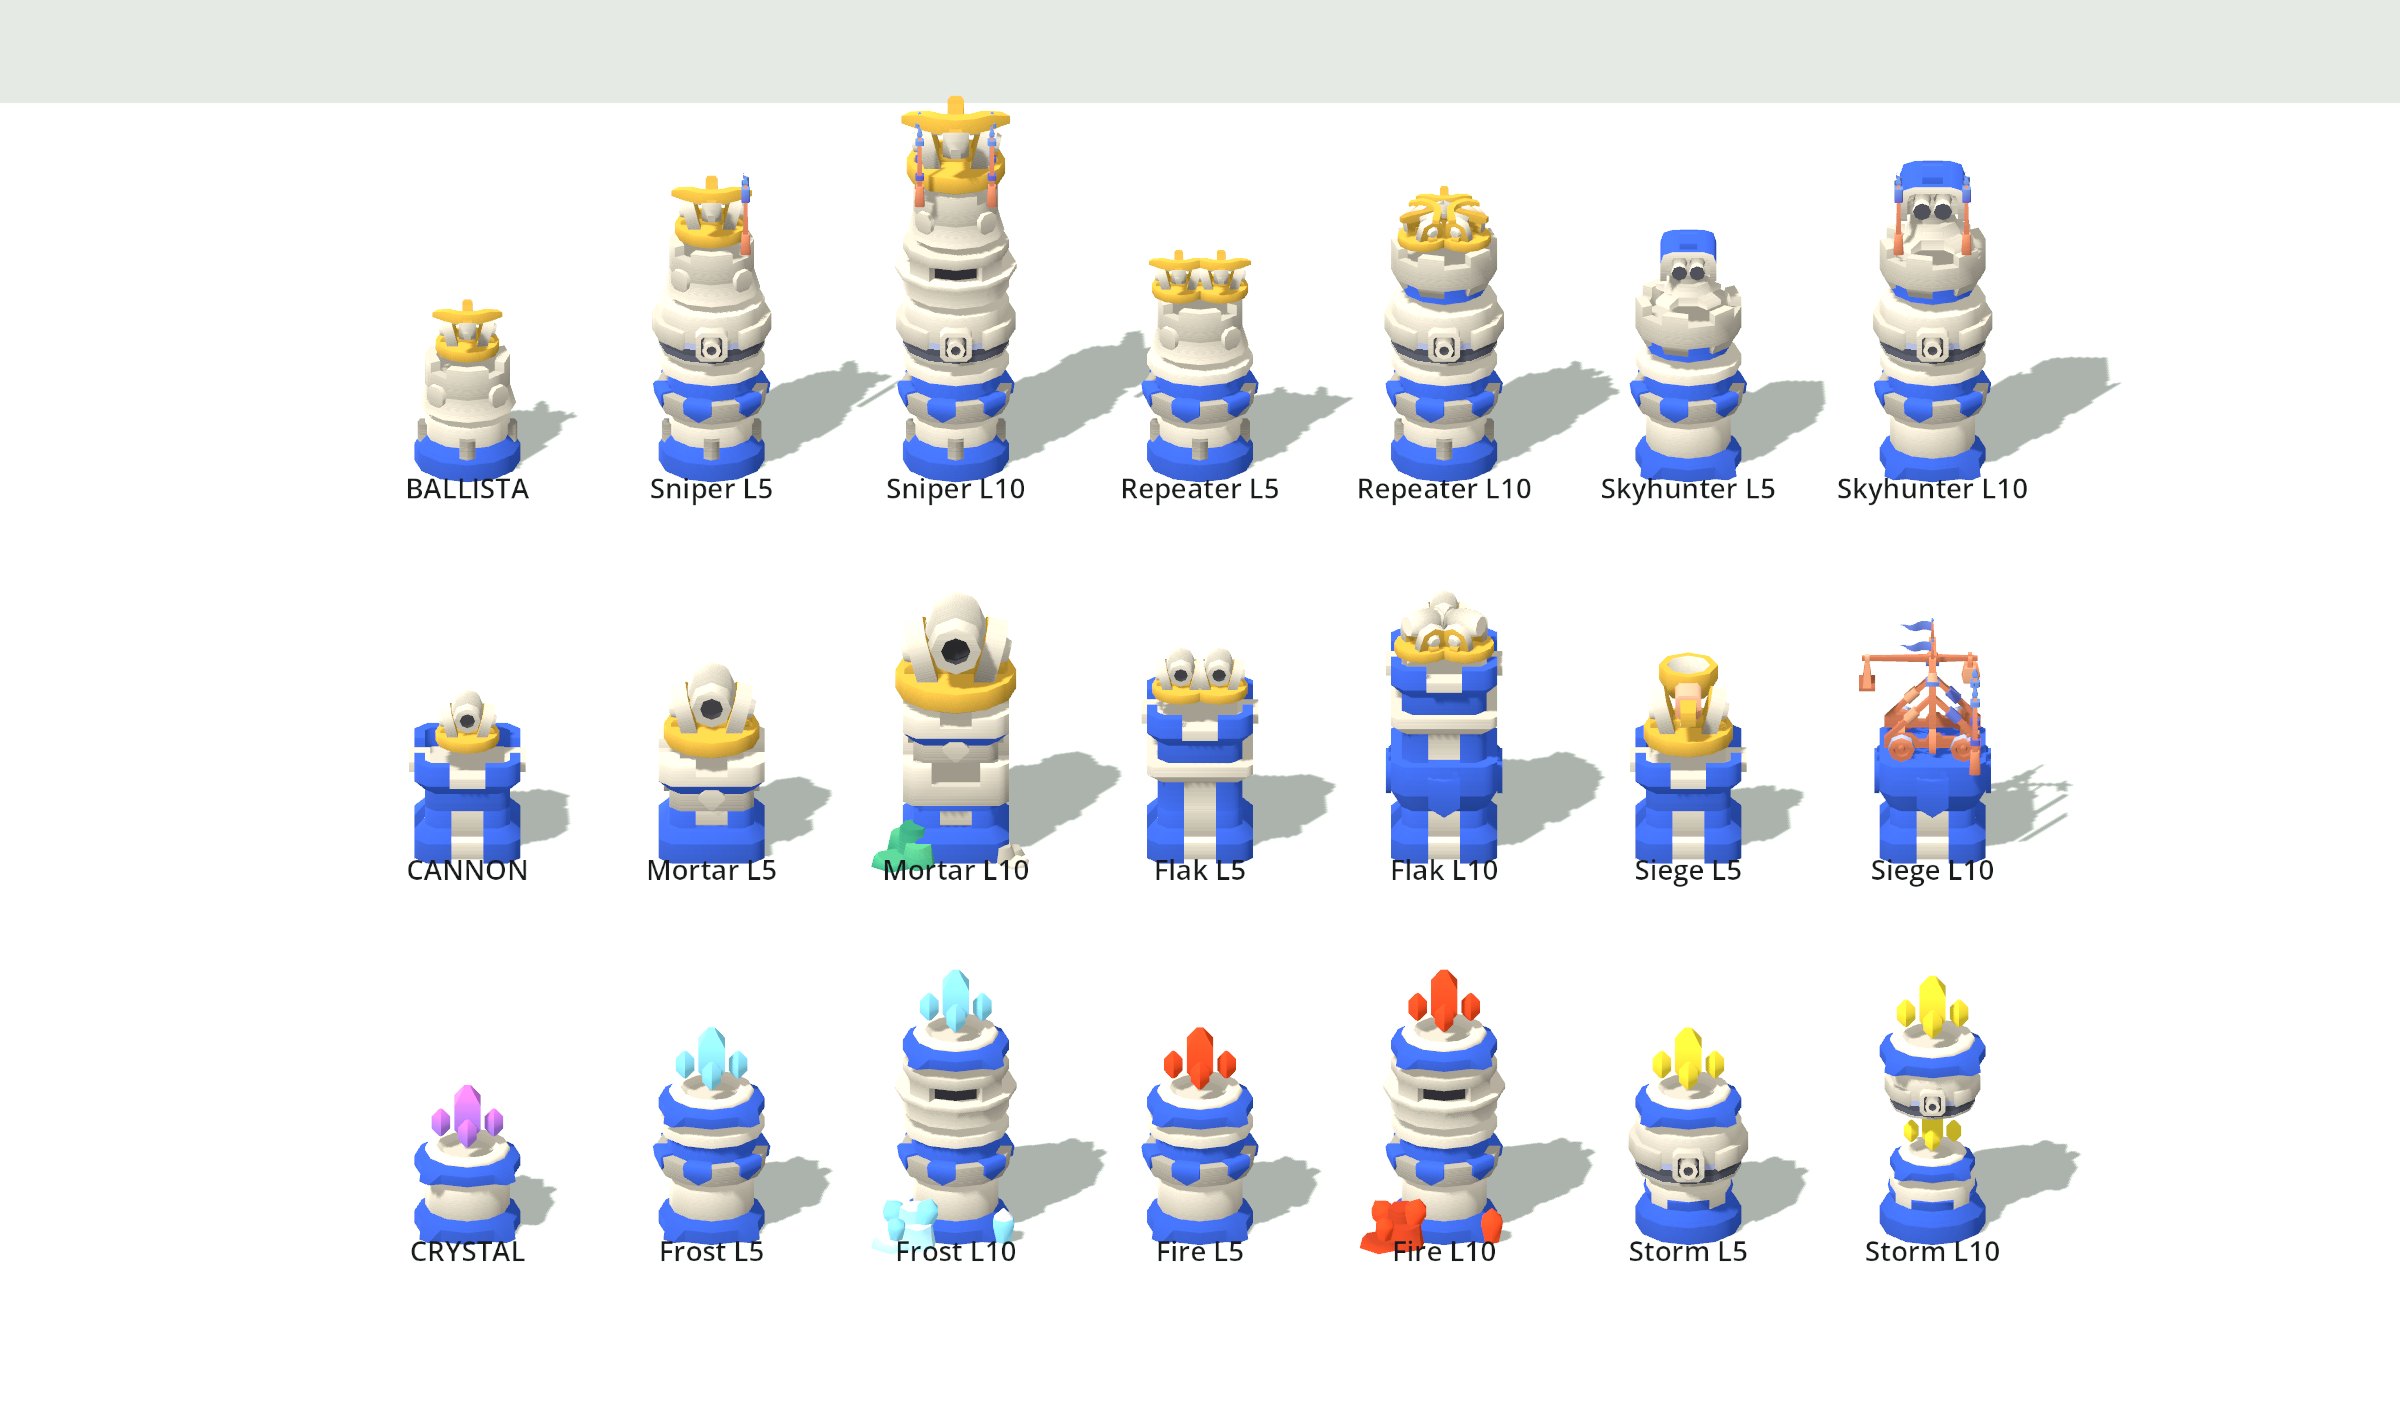
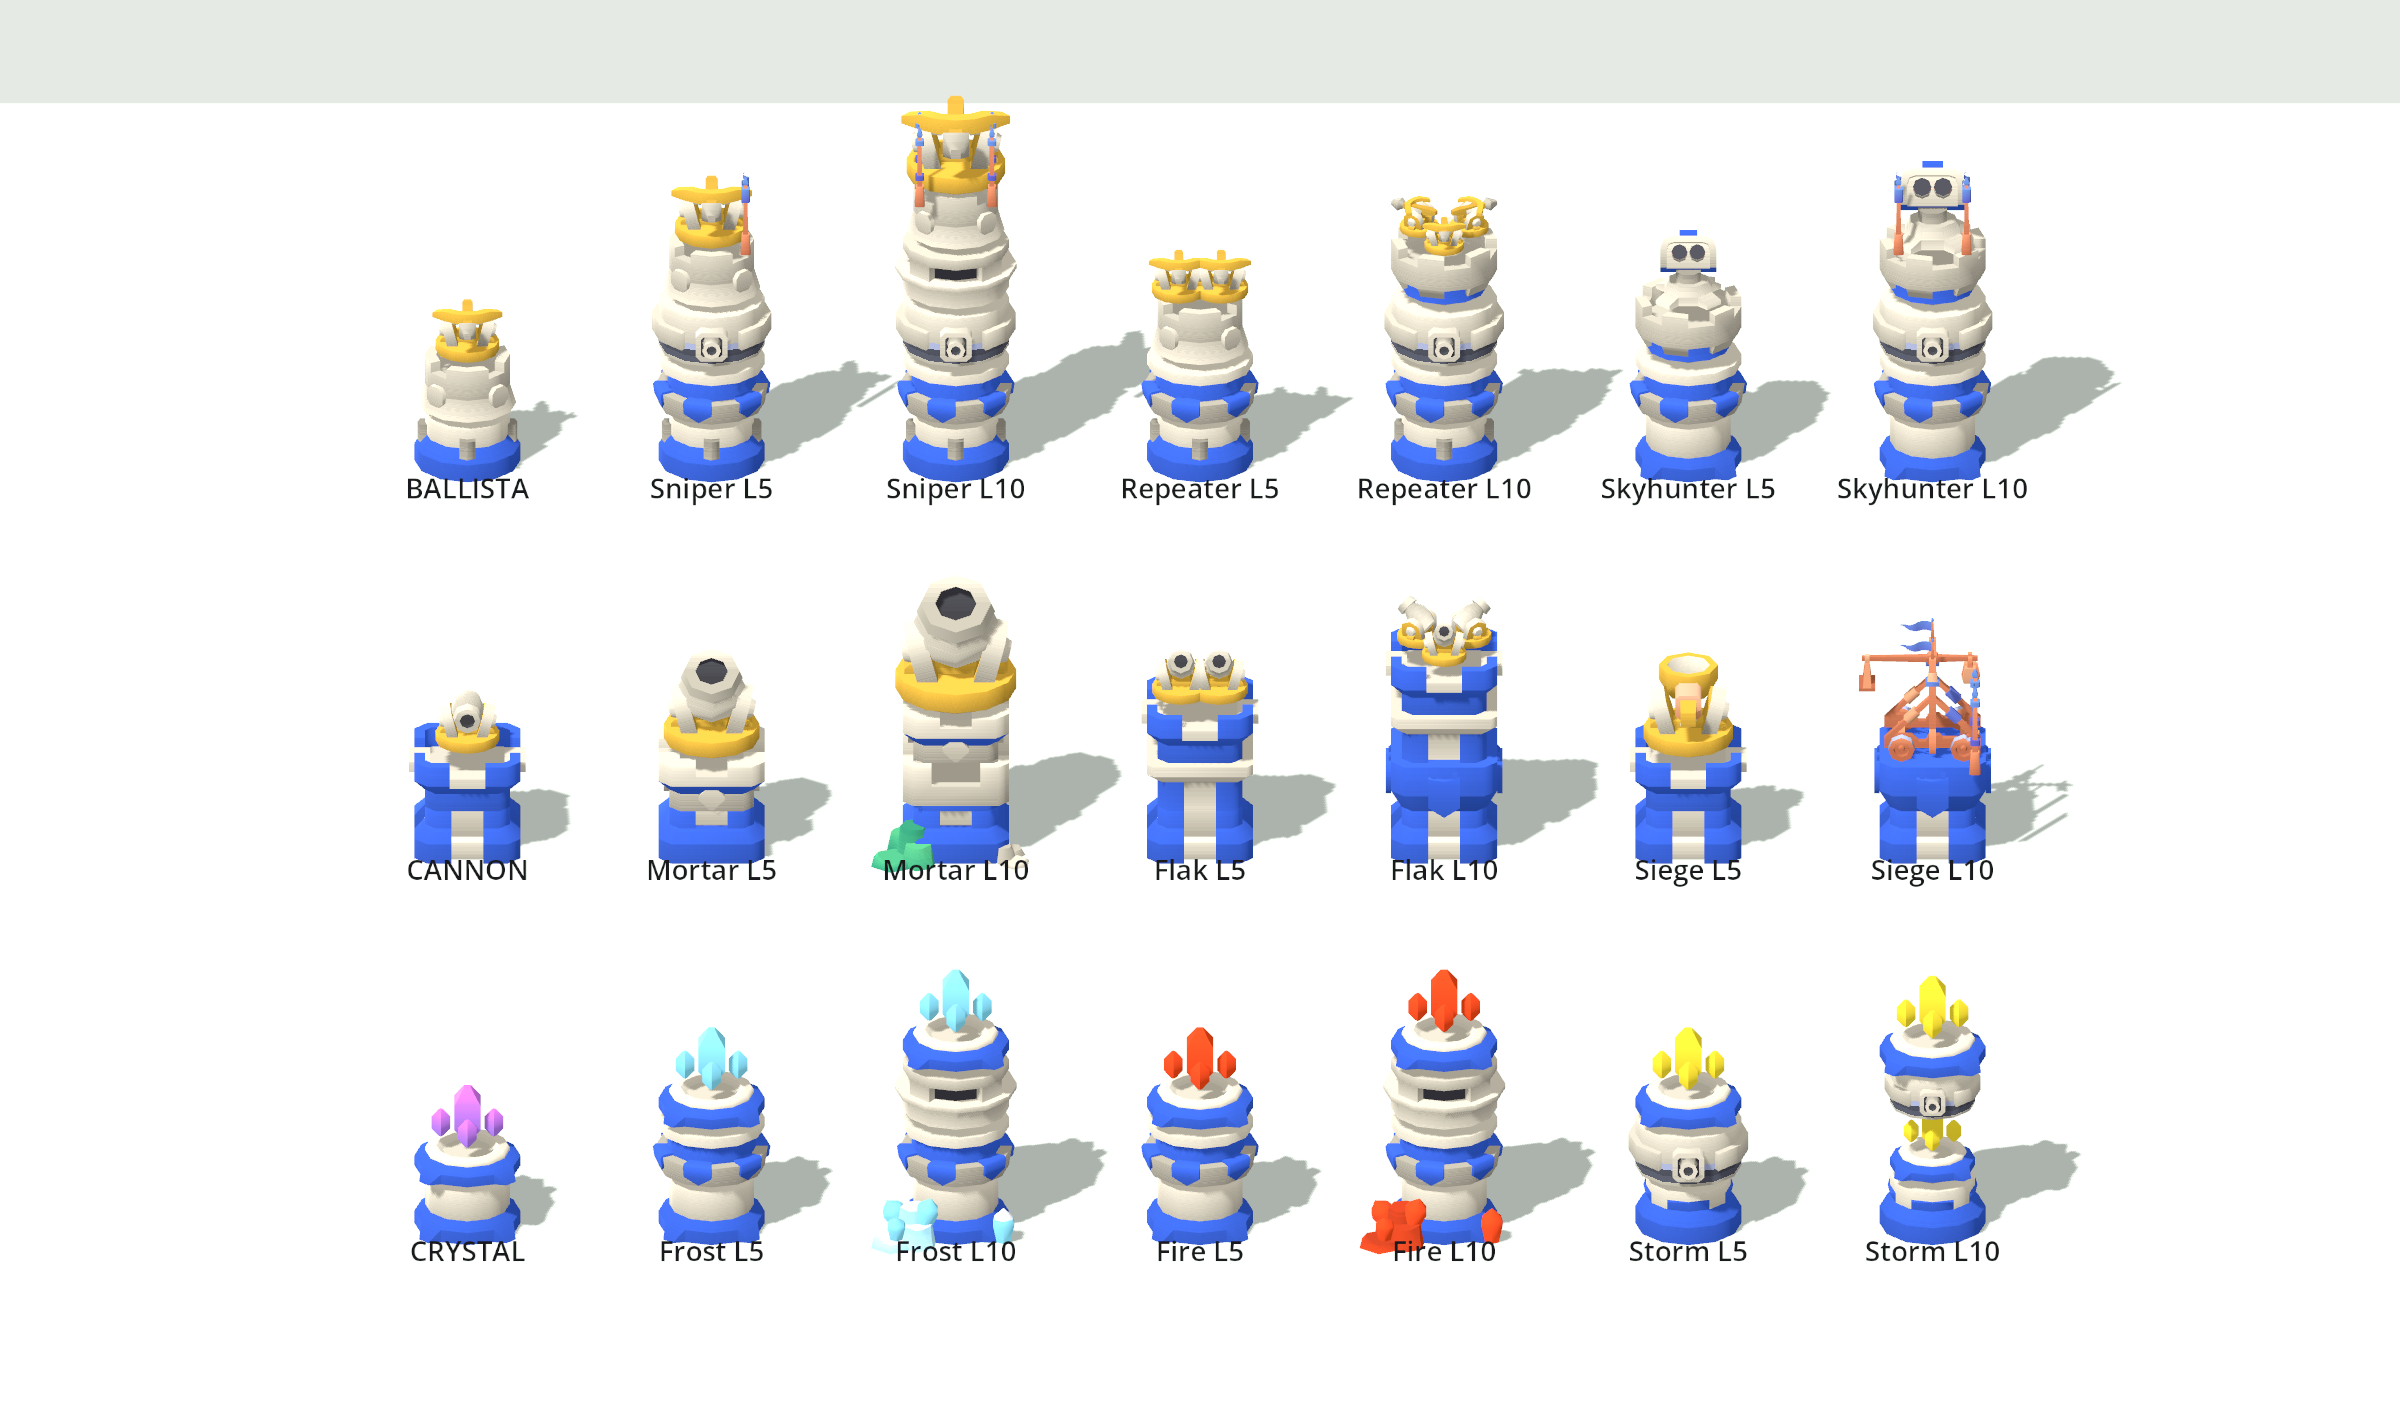
docs(design): face ring weapons outward, give mortars and anti-air raised barrels
Sheet parts can pitch and rescale a weapon's barrel node; mortars get a short,
wide tube at 60 degrees, flak and skyhunter barrels aim up.

diff --git a/scripts/Dev/RosterSheet.cs b/scripts/Dev/RosterSheet.cs
@@ -18,12 +18,29 @@ public static class RosterSheet
 
 	static Part Td(string m, PartMode mode = PartMode.Stack, float scale = 1, Vector3 offset = default, float rot = 0, TowerPalette pal = null) =>
 		new("td", m, mode, offset, rot, scale, null, pal ?? Blue);
-	static Part Top(string m, float scale = 1, float x = 0, float z = 0, float rot = 0, TowerPalette pal = null) =>
-		Td(m, PartMode.Top, scale, new Vector3(x, 0, z), rot, pal);
+	// pitch tilts the weapon's barrel up (anti-air and mortars aim at the sky).
+	static Part Top(string m, float scale = 1, float x = 0, float z = 0, float rot = 0, TowerPalette pal = null, float pitch = 0) =>
+		new("td", m, PartMode.Top, new Vector3(x, 0, z), rot, scale, null, pal ?? Blue, Pitch: pitch);
 	static Part Free(string m, float scale, float x, float z, float rot = 0, TowerPalette pal = null) =>
 		Td(m, PartMode.Free, scale, new Vector3(x, 0, z), rot, pal);
 	static Part Castle(string m, float scale = 1, float x = 0, float z = 0, float rot = 0, PartMode mode = PartMode.Top) =>
 		new("castle", m, mode, new Vector3(x, 0, z), rot, scale);
+	// n weapons spread evenly around the tower top, each facing outward (weapons face +Z by default).
+	static Part[] Ring(string model, int n, float radius, float scale, float startDeg = 0, float pitch = 0)
+	{
+		var parts = new Part[n];
+		for (int i = 0; i < n; i++)
+		{
+			float deg = startDeg + 360f * i / n, rad = Mathf.DegToRad(deg);
+			parts[i] = Top(model, scale, Mathf.Sin(rad) * radius, Mathf.Cos(rad) * radius, deg, pitch: pitch);
+		}
+		return parts;
+	}
+
+	// A cannon with a short, wide barrel pitched steeply up: reads as a mortar at a glance.
+	static Part Mortar(float scale, float x = 0) =>
+		new("td", "weapon-cannon", PartMode.Top, new Vector3(x, 0, 0), 0, scale, null, Blue, Pitch: 60, Barrel: new Vector3(1.4f, 1.4f, 0.7f));
+
 	static Entry E(string caption, string sub, params Part[] parts) => new(caption, new List<Part>(parts), sub);
 
 	// Round tower pieces with the given variant letters, bottom to top.
@@ -58,20 +75,18 @@ public static class RosterSheet
 		E("Sniper L10", "executes low-HP", With(Round("a", "a", "a", "b", "c"), Top("weapon-ballista", 1.55f),
 			Castle("flag-wide", 0.9f, 0.34f, 0.34f), Castle("flag-wide", 0.9f, -0.34f, 0.34f))),
 		E("Repeater L5", "2 bolts, fast", With(Round("a", "a", "a"), Top("weapon-ballista", 0.85f, -0.2f), Top("weapon-ballista", 0.85f, 0.2f))),
-		E("Repeater L10", "3 targets at once", With(Round("a", "b", "a", "b"), Top("weapon-ballista", 0.8f, 0, -0.2f),
-			Top("weapon-ballista", 0.8f, -0.2f, 0.15f, 120), Top("weapon-ballista", 0.8f, 0.2f, 0.15f, 240))),
-		E("Skyhunter L5", "x2 vs flyers", With(Round("b", "b", "a"), Top("weapon-turret", 1.2f))),
-		E("Skyhunter L10", "air splash, range", With(Round("b", "b", "a", "b"), Top("weapon-turret", 1.4f),
+		E("Repeater L10", "3 targets at once", With(Round("a", "b", "a", "b"), Ring("weapon-ballista", 3, 0.27f, 0.62f))),
+		E("Skyhunter L5", "x2 vs flyers", With(Round("b", "b", "a"), Top("weapon-turret", 1.2f, pitch: 30))),
+		E("Skyhunter L10", "air splash, range", With(Round("b", "b", "a", "b"), Top("weapon-turret", 1.4f, pitch: 30),
 			Castle("flag-pennant", 0.9f, -0.32f, 0.32f), Castle("flag-pennant", 0.9f, 0.32f, 0.32f))),
 
 		// ---------------------------------------------------------------- CANNON: splash (absorbs the catapult)
 		E("CANNON", "L1 · 1400g", With(Square("b", "b"), Top("weapon-cannon"))),
-		E("Mortar L5", "huge splash, ground", With(Square("c", "c"), Top("weapon-cannon", 1.5f))),
-		E("Mortar L10", "burning craters", With(Square("c", "c", "c"), Top("weapon-cannon", 1.9f),
+		E("Mortar L5", "huge splash, ground", With(Square("c", "c"), Mortar(1.5f))),
+		E("Mortar L10", "burning craters", With(Square("c", "c", "c"), Mortar(1.9f),
 			Free("detail-rocks-large", 0.8f, -0.45f, 0.35f), Free("detail-rocks", 0.8f, 0.45f, 0.4f))),
-		E("Flak L5", "splash vs air", With(Square("b", "b", "b"), Top("weapon-cannon", 0.9f, -0.18f), Top("weapon-cannon", 0.9f, 0.18f))),
-		E("Flak L10", "3 shells per volley", With(Square("b", "b", "a", "b"), Top("weapon-cannon", 0.9f, 0, -0.2f),
-			Top("weapon-cannon", 0.9f, -0.2f, 0.15f, 120), Top("weapon-cannon", 0.9f, 0.2f, 0.15f, 240))),
+		E("Flak L5", "splash vs air", With(Square("b", "b", "b"), Top("weapon-cannon", 0.9f, -0.18f, pitch: 30), Top("weapon-cannon", 0.9f, 0.18f, pitch: 30))),
+		E("Flak L10", "3 shells per volley", With(Square("b", "b", "a", "b"), Ring("weapon-cannon", 3, 0.27f, 0.7f, pitch: 35))),
 		E("Siege L5", "x2 vs bosses, tanks", With(Square("b", "b"), Top("weapon-catapult", 1.4f))),
 		E("Siege L10", "% max-HP boulders", With([Td("tower-square-bottom-b"), Td("tower-square-middle-a")], Castle("siege-trebuchet", 0.62f),
 			Castle("flag-wide", 1f, 0.4f, 0.4f))),
@@ -95,25 +110,21 @@ public static class RosterSheet
 		E("Sniper A", "as in roster", With(Round("a", "a", "a", "b", "c"), Top("weapon-ballista", 1.55f), Castle("flag-wide", 0.9f, 0.34f, 0.34f))),
 		E("Sniper B", "slim spire", With(Round("a", "a", "a", "b", "a", "c"), Top("weapon-ballista", 1.3f))),
 		E("Sniper C", "siege ballista", With([Td("tower-round-bottom-a"), Td("tower-round-middle-a")], Castle("siege-ballista", 0.7f))),
-		E("Repeater A", "as in roster", With(Round("a", "b", "a", "b"), Top("weapon-ballista", 0.8f, 0, -0.2f),
-			Top("weapon-ballista", 0.8f, -0.2f, 0.15f, 120), Top("weapon-ballista", 0.8f, 0.2f, 0.15f, 240))),
+		E("Repeater A", "as in roster", With(Round("a", "b", "a", "b"), Ring("weapon-ballista", 3, 0.27f, 0.62f))),
 		E("Repeater B", "square body", With(Square("a", "a", "a", "b"), Top("weapon-ballista", 0.85f, -0.2f), Top("weapon-ballista", 0.85f, 0.2f))),
-		E("Repeater C", "four-way", With(Round("a", "a", "a", "b"), Top("weapon-ballista", 0.65f, -0.18f, -0.18f), Top("weapon-ballista", 0.65f, 0.18f, -0.18f, 90),
-			Top("weapon-ballista", 0.65f, -0.18f, 0.18f, 270), Top("weapon-ballista", 0.65f, 0.18f, 0.18f, 180))),
-		E("Skyhunter A", "as in roster", With(Round("b", "b", "a", "b"), Top("weapon-turret", 1.4f), Castle("flag-pennant", 0.9f, 0.32f, 0.32f))),
-		E("Skyhunter B", "scaffold mast", With([Td("tower-round-base"), Td("wood-structure-high", PartMode.Stack, 0.75f)], Top("weapon-turret", 1.3f))),
-		E("Skyhunter C", "twin turrets", With(Round("b", "b", "a", "b"), Top("weapon-turret", 1f, -0.2f), Top("weapon-turret", 1f, 0.2f))),
+		E("Repeater C", "four-way", With(Round("a", "a", "a", "b"), Ring("weapon-ballista", 4, 0.28f, 0.5f, 45))),
+		E("Skyhunter A", "as in roster", With(Round("b", "b", "a", "b"), Top("weapon-turret", 1.4f, pitch: 30), Castle("flag-pennant", 0.9f, 0.32f, 0.32f))),
+		E("Skyhunter B", "scaffold mast", With([Td("tower-round-base"), Td("wood-structure-high", PartMode.Stack, 0.75f)], Top("weapon-turret", 1.3f, pitch: 30))),
+		E("Skyhunter C", "twin turrets", With(Round("b", "b", "a", "b"), Top("weapon-turret", 1f, -0.2f, pitch: 30), Top("weapon-turret", 1f, 0.2f, pitch: 30))),
 
-		E("Mortar A", "as in roster", With(Square("c", "c", "c"), Top("weapon-cannon", 1.9f), Free("detail-rocks-large", 0.8f, -0.45f, 0.35f))),
-		E("Mortar B", "squat bunker", With([Td("tower-round-base")], Top("weapon-cannon", 2.1f), Free("weapon-ammo-cannonball", 2f, 0.45f, 0.4f),
+		E("Mortar A", "as in roster", With(Square("c", "c", "c"), Mortar(1.9f), Free("detail-rocks-large", 0.8f, -0.45f, 0.35f))),
+		E("Mortar B", "squat bunker", With([Td("tower-round-base")], Mortar(2.1f), Free("weapon-ammo-cannonball", 2f, 0.45f, 0.4f),
 			Free("weapon-ammo-cannonball", 2f, 0.3f, 0.52f))),
-		E("Mortar C", "tall battery", With(Square("c", "c", "b", "c"), Top("weapon-cannon", 1.6f))),
-		E("Flak A", "as in roster", With(Square("b", "b", "a", "b"), Top("weapon-cannon", 0.9f, 0, -0.2f),
-			Top("weapon-cannon", 0.9f, -0.2f, 0.15f, 120), Top("weapon-cannon", 0.9f, 0.2f, 0.15f, 240))),
-		E("Flak B", "turret + pennants", With(Square("b", "b", "a", "b"), Top("weapon-turret", 1.4f),
+		E("Mortar C", "twin tubes", With(Square("c", "c", "b", "c"), Mortar(1.2f, -0.2f), Mortar(1.2f, 0.2f))),
+		E("Flak A", "as in roster", With(Square("b", "b", "a", "b"), Ring("weapon-cannon", 3, 0.27f, 0.7f, pitch: 35))),
+		E("Flak B", "turret + pennants", With(Square("b", "b", "a", "b"), Top("weapon-turret", 1.4f, pitch: 30),
 			Castle("flag-pennant", 0.9f, 0.34f, 0.34f), Castle("flag-pennant", 0.9f, -0.34f, 0.34f))),
-		E("Flak C", "four-way", With(Square("b", "b", "a", "b"), Top("weapon-cannon", 0.7f, -0.18f, -0.18f), Top("weapon-cannon", 0.7f, 0.18f, -0.18f, 90),
-			Top("weapon-cannon", 0.7f, -0.18f, 0.18f, 270), Top("weapon-cannon", 0.7f, 0.18f, 0.18f, 180))),
+		E("Flak C", "four-way", With(Square("b", "b", "a", "b"), Ring("weapon-cannon", 4, 0.28f, 0.55f, 45, 35))),
 		E("Siege A", "as in roster", With([Td("tower-square-bottom-b"), Td("tower-square-middle-a")], Castle("siege-trebuchet", 0.62f))),
 		E("Siege B", "scaffold trebuchet", With([Td("wood-structure-high", PartMode.Stack, 0.8f)], Castle("siege-trebuchet", 0.72f))),
 		E("Siege C", "big catapult", With(Square("b", "c", "c"), Top("weapon-catapult", 1.7f), Free("weapon-ammo-boulder", 1.6f, -0.45f, 0.4f),

diff --git a/scripts/Dev/SheetRenderer.cs b/scripts/Dev/SheetRenderer.cs
@@ -26,7 +26,8 @@ public partial class SheetRenderer : Node3D
 	public enum PartMode { Stack, Top, Free }
 
 	// One cell: a caption and the parts to stack/place, each (source, model, mode, offset, rotation Y, scale, tint).
-	public sealed record Part(string Kit, string Model, PartMode Mode = PartMode.Stack, Vector3 Offset = default, float RotY = 0, float Scale = 1, Color? Tint = null, TowerPalette Palette = null);
+	public sealed record Part(string Kit, string Model, PartMode Mode = PartMode.Stack, Vector3 Offset = default, float RotY = 0, float Scale = 1, Color? Tint = null, TowerPalette Palette = null,
+		float Pitch = 0, Vector3? Barrel = null);
 	public sealed record Entry(string Caption, List<Part> Parts, string Sub = "");
 
 	public override async void _Ready()
@@ -107,6 +108,12 @@ public partial class SheetRenderer : Node3D
 		n.RotationDegrees = new Vector3(0, p.RotY, 0);
 		n.Scale = Vector3.One * p.Scale;
 		p.Palette?.Apply(n);
+		// Weapons keep their moving part in a child node (barrel / arrow / turret barrel) pivoting on the mount.
+		if ((p.Pitch != 0 || p.Barrel != null) && n.FindChild("barrel", true, false) is Node3D barrel)
+		{
+			barrel.RotationDegrees = new Vector3(-p.Pitch, 0, 0);
+			if (p.Barrel is { } b) barrel.Scale = b;
+		}
 		if (p.Tint is { } tint) TintAll(n, tint);
 		return n;
 	}
